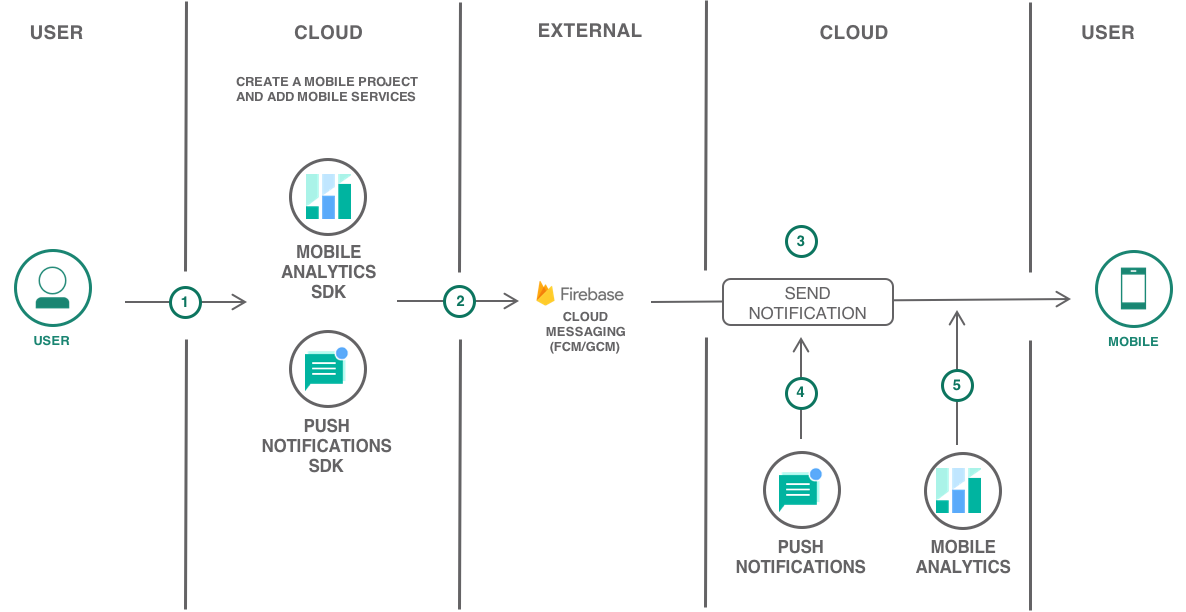
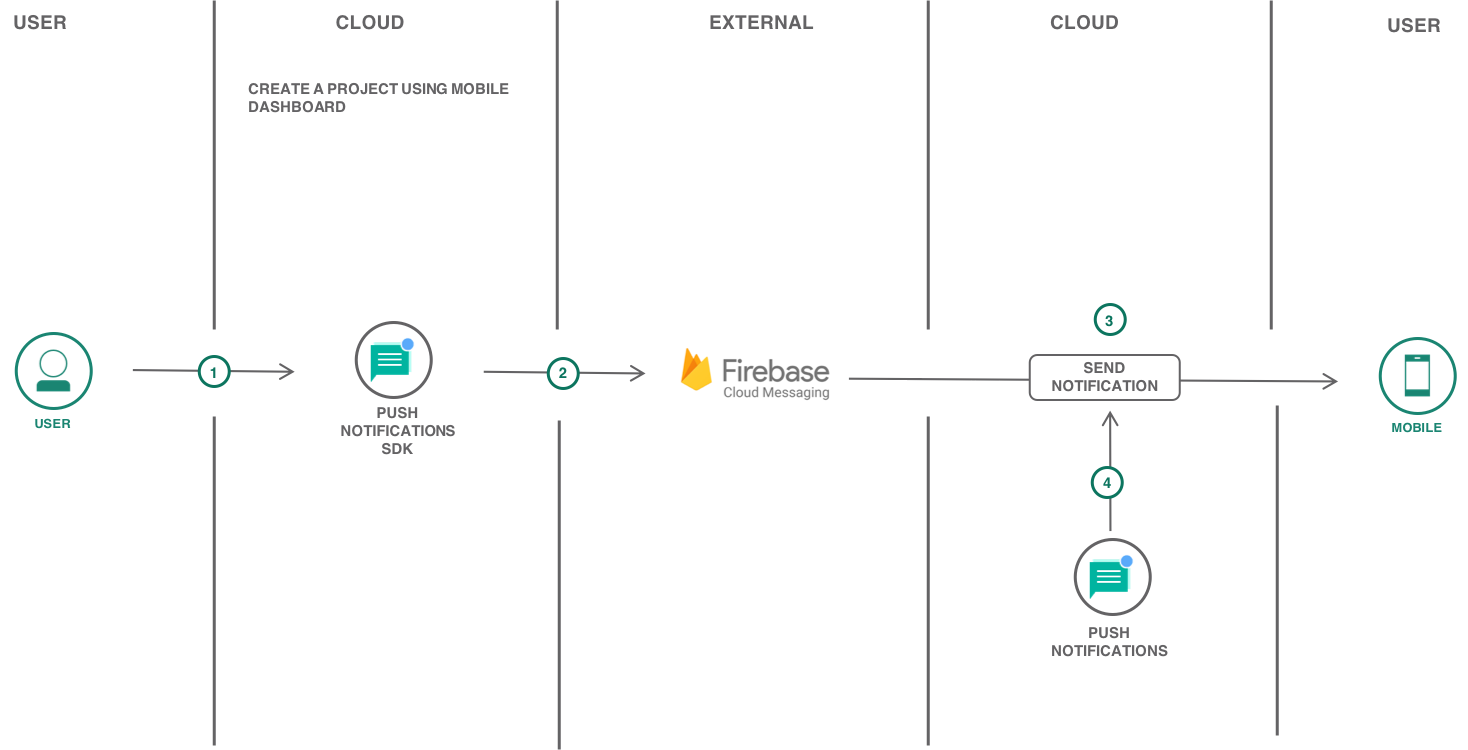
Removed mobile analytics from Android tutorial

diff --git a/android-mobile-push-analytics.md b/android-mobile-push-analytics.md
@@ -1,7 +1,7 @@
 ---
 copyright:
   years: 2017, 2018
-lastupdated: "2018-06-07"
+lastupdated: "2018-10-01"
 
 ---
 
@@ -12,27 +12,26 @@ lastupdated: "2018-06-07"
 {:tip: .tip}
 {:pre: .pre}
 
-# Android native mobile application with Push and Analytics
+# Android native mobile application with Push Notifications
 
-Learn how easy it is to quickly create a native Android application with high-value mobile services like {{site.data.keyword.mobilepushshort}} and {{site.data.keyword.mobileanalytics_short}} on {{site.data.keyword.Bluemix_notm}}.
+Learn how easy it is to quickly create a native Android application with high-value mobile service like {{site.data.keyword.mobilepushshort}} on {{site.data.keyword.Bluemix_notm}}.
 
-This tutorial walks you through the creation of a mobile starter application, adding mobile services, setting up client SDKs, importing the code to Android Studio and then further enhancing the application.
+This tutorial walks you through the creation of a mobile starter application, adding mobile service(s), setting up client SDKs, importing the code to Android Studio and then further enhancing the application.
 
 ## Objectives
+{: #objectives}
 
-* Create a mobile app with {{site.data.keyword.mobilepushshort}} and {{site.data.keyword.mobileanalytics_short}} services.
+* Create a mobile app with {{site.data.keyword.mobilepushshort}} service.
 * Obtain FCM credentials.
 * Download the code and complete required setup.
-* Instrumenting the app to use {{site.data.keyword.mobileanalytics_short}}.
 * Configure, send, and monitor {{site.data.keyword.mobilepushshort}}.
-* Monitoring the app with {{site.data.keyword.mobileanalytics_short}}.
 
- ![](images/solution9/Architecture.png)
+![](images/solution9/Architecture.png)
 
 ## Products
+{: #products}
 
 This tutorial uses the following products:
-   * [{{site.data.keyword.mobileanalytics_full}}](https://console.bluemix.net/catalog/services/mobile-analytics)
    * [{{site.data.keyword.pushfull}}](https://console.bluemix.net/catalog/services/push-notifications)
 
 ## Before you begin
@@ -45,23 +44,24 @@ This tutorial uses the following products:
 {: #get_code}
 The {{site.data.keyword.Bluemix_notm}} Mobile Dashboard allows you to fast-track your mobile app development by creating your app from a Starter Kit.
 1. Navigate to [Mobile Dashboard](https://console.bluemix.net/developer/mobile/dashboard)
-2. Click on **Starter Kits** and scroll down to select the **Basic** Starter Kit.
+2. Click on **Starter Kits** and click on **Create App**.
     ![](images/solution9/mobile_dashboard.png)
 3. Enter an app name, this can be your android project name as well.
-4. Select **Android** as your language and check the mobile services on the right pane.
+4. Select **Android** as your language and click **Create**.
 
     ![](images/solution9/create_mobile_project.png)
-5. Click on **Create** to scaffold an Android (Java) App.
-6. A new App will be created under **Apps** tab on the left pane.
-    **Note:** {{site.data.keyword.mobilepushshort}} and {{site.data.keyword.mobileanalytics_short}} Services should be added with the Basic Starter.
+5. Click on **Add Resource** > Mobile > **Push Notifications** and select the region you want to provision the service, resource group and **Lite** pricing plan.
+6. Click **Create** to provision {{site.data.keyword.mobilepushshort}} service. A new App will be created under **Apps** tab.
+    **Note:** {{site.data.keyword.mobilepushshort}} service should be added with the Empty Starter.
     In the next step, you will obtain Firebase Cloud Messaging (FCM) credentials.
 
-In the next step, you will download the scaffolded code and setup the Push and Analytics Android SDKs.
+In the next step, you will download the scaffolded code and setup the Push Android SDK.
 
 ## Download the code and complete required setup
+{: #download_code}
 
 If you haven't downloaded the code yet, then use {{site.data.keyword.Bluemix_notm}} Mobile dashboard to get the code by clicking on the  **Download Code** button under Apps > **Your Mobile App**.
-The downloaded code comes with **{{site.data.keyword.mobilepushshort}}** and **{{site.data.keyword.mobileanalytics_short}}** client SDKs included. The client SDKs is available on Gradle and Maven. For this tutorial, you will use **Gradle**.
+The downloaded code comes with **{{site.data.keyword.mobilepushshort}}** client SDK included. The client SDK is available on Gradle and Maven. For this tutorial, you will use **Gradle**.
 
 1. Launch Android Studio > **Open an existing Android Studio project** and point to the downloaded code.
 2. **Gradle** build will automatically be triggered and all the dependencies will be downloaded.
@@ -73,26 +73,8 @@ The downloaded code comes with **{{site.data.keyword.mobilepushshort}}** and **{
 5. The required permissions are all inside the `AndroidManifest.xml` file and dependencies. Push and Analytics are included in **build.gradle (Module: app)**.
 6. **Firebase Cloud Messaging (FCM)** intent service and intent filters for the `RECEIVE` and `REGISTRATION` event notifications are included in `AndroidManifest.xml`
 
-## Instrumenting the app to use {{site.data.keyword.mobileanalytics_short}}
-
-1. In Android Studio, navigate to `MainActivity.java`. You should see the `import` statements already added
-2. The code includes `BMSClient` initialization code with the `Region` parameter. In the initializer, the `Region` value specifies which {{site.data.keyword.Bluemix_notm}} deployment you are using, for example, `BMSClient.REGION_US_SOUTH` and `BMSClient.REGION_UK`.
-    **Note:** Core SDK must be initialized to interact with {{site.data.keyword.Bluemix_notm}} Mobile services.
-3. In this code snippet, Analytics is configured to record lifecycle events. Both `app_name` and `apiKey` are pre-configured as part of the code generation process.
-   ```
-   Analytics.init(getApplication(), "your_app_name_here", apiKey, hasUserContext, Analytics.DeviceEvent.ALL);
-   ```
-    **Note:** The service credentials are part of `/res/values/credentials.xml` file.
-4. The code below enables `Logger` (disabled by default), and sets the logLevel to ERROR (DEBUG by default).
-   ```
-   Logger.storeLogs(true);
-   Logger.setLogLevel(Logger.LEVEL.ERROR);
-   ```
-
-For advanced Analytics and logging capabilities, Refer [Gathering usage Analytics](https://console.bluemix.net/docs/services/mobileanalytics/sdk.html#app-monitoring-gathering-analytics) and [logging](https://console.bluemix.net/docs/services/mobileanalytics/sdk.html#enabling-configuring-and-using-logger)
-{:tip}
-
 ## Obtain FCM credentials
+{: #obtain_fcm_credentials}
 
 Firebase Cloud Messaging (FCM) is the gateway used to deliver {{site.data.keyword.mobilepushshort}} to Android devices, Google Chrome browser, and Chrome Apps & Extensions. To set up the {{site.data.keyword.mobilepushshort}} service on the console, you need to get your FCM credentials (Sender ID and API key).
 
@@ -127,6 +109,8 @@ You would also need to generate the `google-services.json` file. Complete the fo
 
 ## Configure, send and monitor {{site.data.keyword.mobilepushshort}}
 
+{: #configure_push}
+
 1. {{site.data.keyword.mobilepushshort}} SDK is already imported into the app and Push initialization code can be found in `MainActivity.java` file.
 
     **Note:** The service credentials are part of `/res/values/credentials.xml` file.
@@ -151,24 +135,10 @@ You would also need to generate the `google-services.json` file. Complete the fo
      The IBM {{site.data.keyword.mobilepushshort}} service now extends capabilities to monitor the push performance by generating graphs from your user data. You can use the utility to list all the sent {{site.data.keyword.mobilepushshort}}, or to list all the registered devices and to analyze information on a daily, weekly, or monthly basis.
       ![](images/solution6/monitoring_messages.png)
 
-## Monitoring the app with {{site.data.keyword.mobileanalytics_short}}.
-
-You can record application logs and monitor data with the {{site.data.keyword.mobileanalytics_short}} Client SDK. Developers can control when to send this data to the {{site.data.keyword.mobileanalytics_short}} Service. When data is delivered to {{site.data.keyword.mobileanalytics_short}}, you can use the {{site.data.keyword.mobileanalytics_short}} console to get analytics insights about your mobile applications, devices, and application logs.
-1. Open the **{{site.data.keyword.mobileanalytics_short}}** service from the mobile app you created or click on the three vertical dots next to the service and select **Open Dashboard**.
-2. You should see LIVE Users, Sessions and other App Data by disabling **Demo Mode**. You can filter the analytics information by
-   - Date.
-   - Application.
-   - Operating System.
-   - Version of the app.
-
-     ![](images/solution9/android_mobile_analytics.png)
-3. [Click here](https://console.bluemix.net/docs/services/mobileanalytics/app-monitoring.html#monitoringapps) to set alerts, monitor app crashes, and monitor network requests.
-
 ## Related Content
-
+{: #related_content}
 - [Customize the {{site.data.keyword.mobilepushshort}} settings](https://console.bluemix.net/docs/services/mobilepush/push_step_4.html#push_step_4_Android)
 - [Tag-based notifications](https://console.bluemix.net/docs/services/mobilepush/push_step_4_nf_tag.html#tag_based_notifications)
 - [{{site.data.keyword.mobilepushshort}} REST APIs](https://console.bluemix.net/docs/services/mobilepush/push_restapi.html#push-api-rest)
 - [Security in {{site.data.keyword.mobilepushshort}}](https://console.bluemix.net/docs/services/mobilepush/push_security.html#overview-push)
-- [Exporting Analytics data to Db2 Warehouse](https://console.bluemix.net/docs/services/mobileanalytics/app-monitoring.html#dashdb)
 

diff --git a/index.md b/index.md
@@ -1,7 +1,7 @@
 ---
 copyright:
   years: 2017, 2018
-lastupdated: "2018-09-13"
+lastupdated: "2018-10-01"
 
 ---
 
